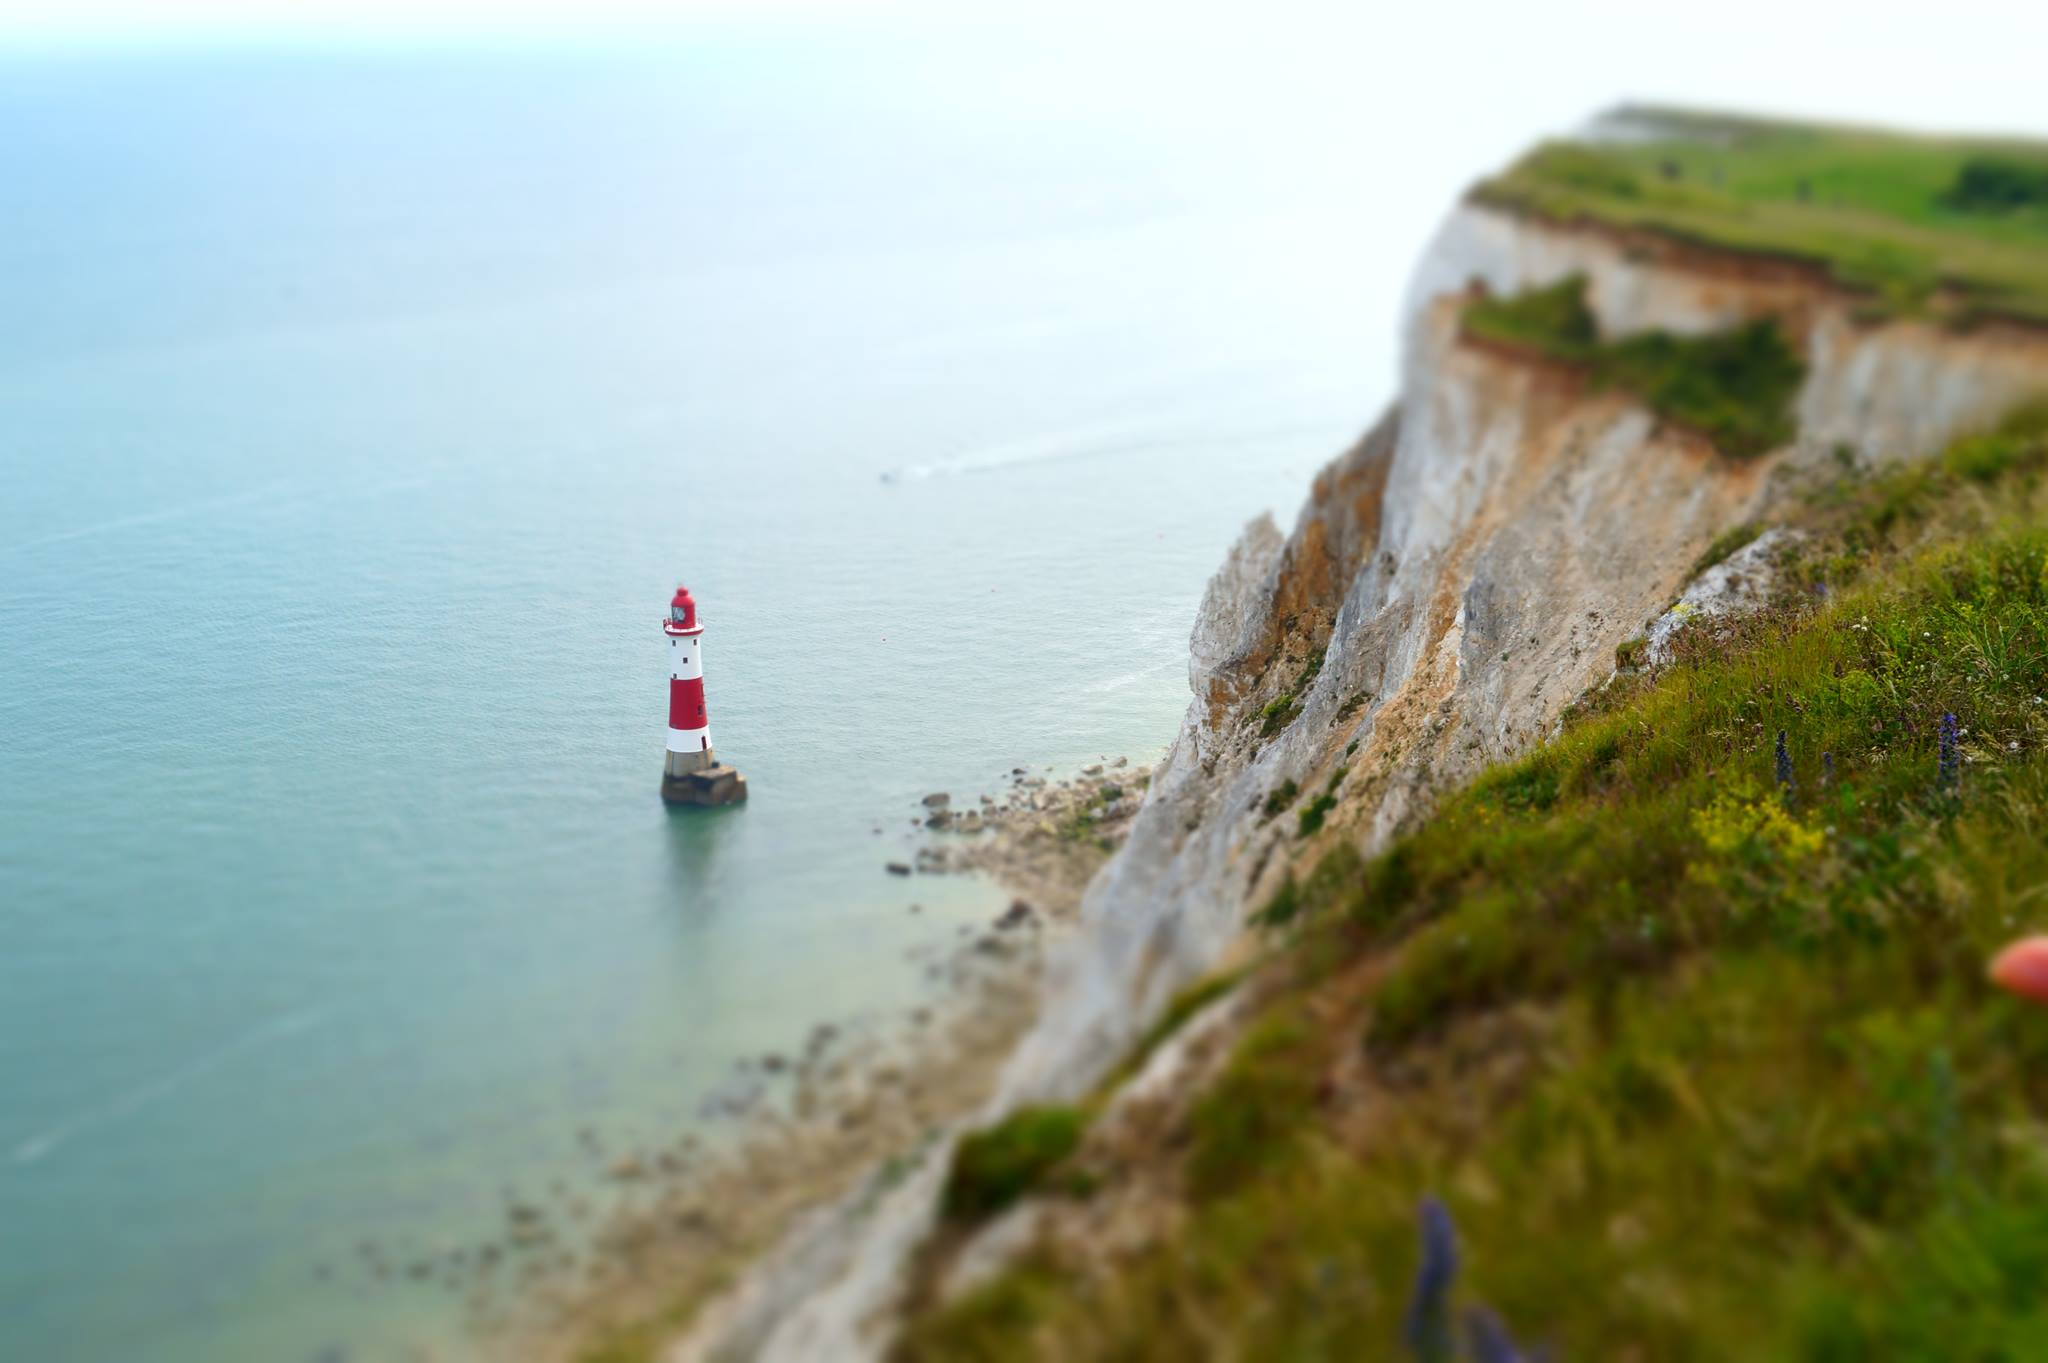
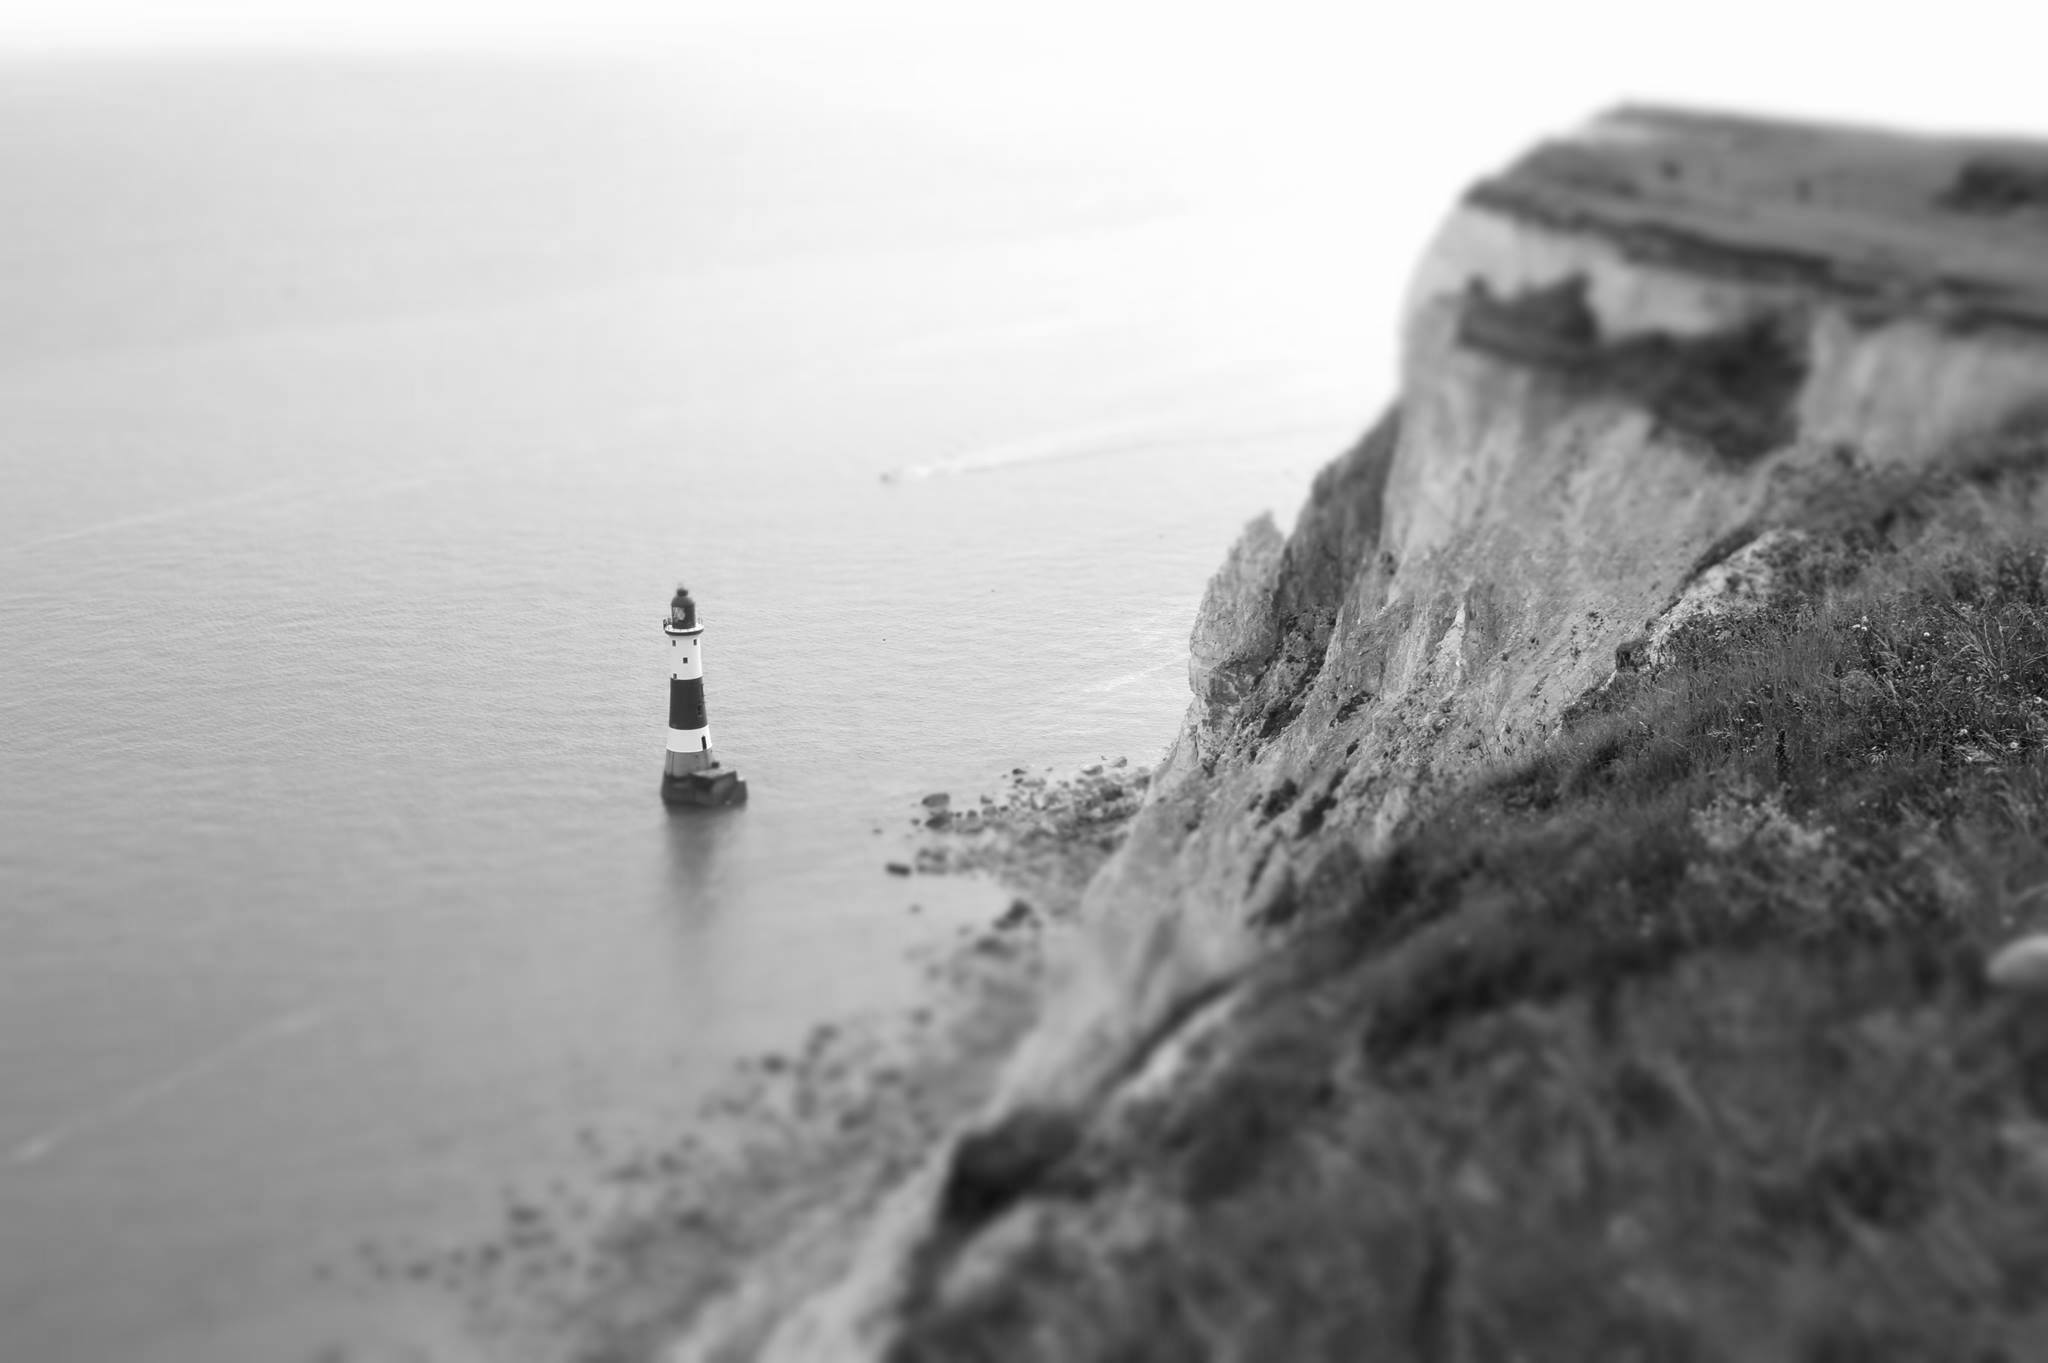
styling

diff --git a/app/assets/stylesheets/landing_page.css.scss b/app/assets/stylesheets/landing_page.css.scss
@@ -1,3 +1,15 @@
+
+// background color below the background image on homepage
+.color_background{
+    position: fixed;
+    top: 0px;
+    bottom: 0px;
+    left: 0px;
+    right: 0px;
+    z-index: -250;
+    background-color: #F6F6EF;
+  }
+
 // container
 .home_container{
   @media (min-width: 0px){ width: 810px; }
@@ -6,19 +18,23 @@
   margin-bottom: 80px;
  
   .image_background{
-    position: fixed;
+    position: absolute;
     top: 0px;
     left: 0px;
     right: 0px;
-    height: 510px;
+    height: 523px;
+    opacity: 0.93;
     z-index: -100;
 
-    background: asset-url("guidelighter.jpg") no-repeat center center fixed; 
+    background: asset-url("guidelighter-color.jpg") no-repeat center center fixed; 
     -webkit-background-size: cover;
     -moz-background-size: cover;
     -o-background-size: cover;
     background-size: cover;
   } 
+
+
+
   // h1
   h1{
     text-transform: uppercase;
@@ -150,7 +166,7 @@
 
   .listing_on_homepage{
     border: 1px solid lightGrey;
-    background-color: white;
+    background-color: #FCFCFC;
     width: 32%;
     height: 365px;
     float: left;

diff --git a/app/assets/stylesheets/application.css.scss b/app/assets/stylesheets/application.css.scss
@@ -1,19 +1,8 @@
 /*
- * This is a manifest file that'll be compiled into application.css, which will include all the files
- * listed below.
- *
- * Any CSS and SCSS file within this directory, lib/assets/stylesheets, vendor/assets/stylesheets,
- * or any plugin's vendor/assets/stylesheets directory can be referenced here using a relative path.
- *
- * You're free to add application-wide styles to this file and they'll appear at the bottom of the
- * compiled file so the styles you add here take precedence over styles defined in any styles
- * defined in the other CSS/SCSS files in this directory. It is generally better to create a new
- * file per style scope.
- *
  *= require_tree .
  *= require_self
  *= require font-awesome
- */
+*/
 
 html, body {
     margin: 0;
